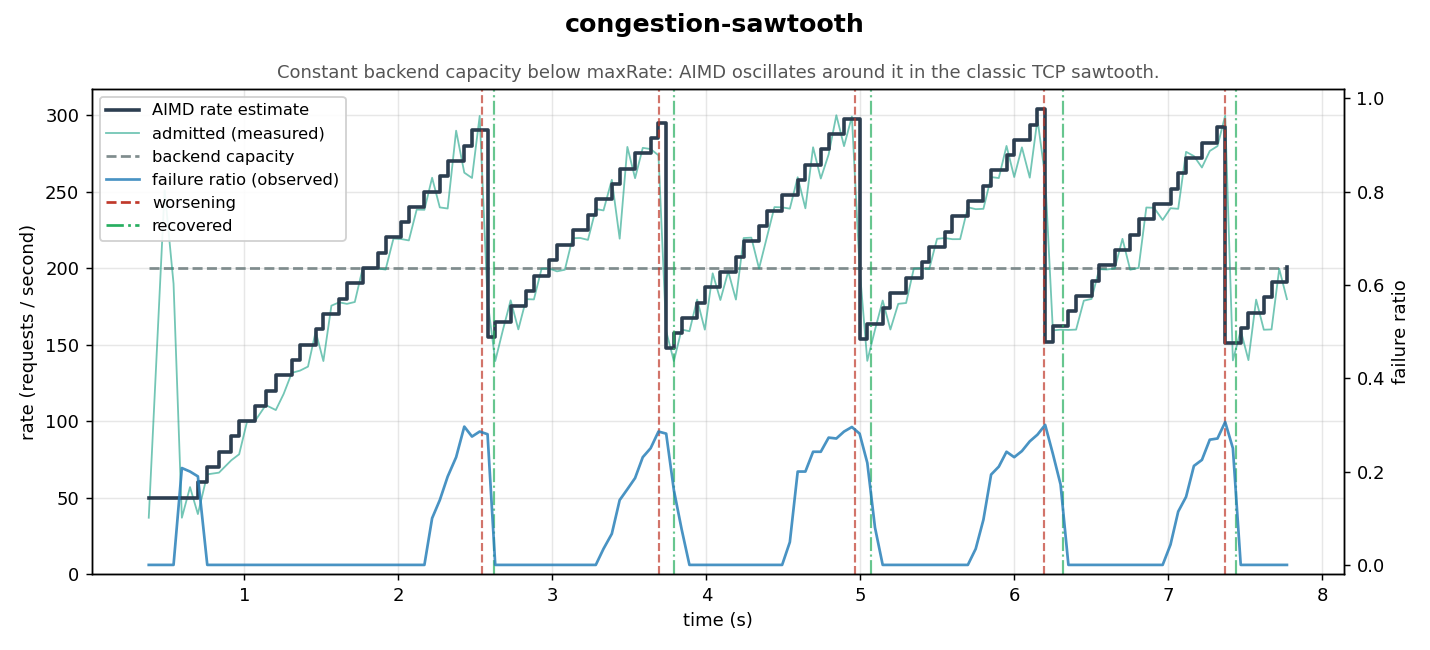
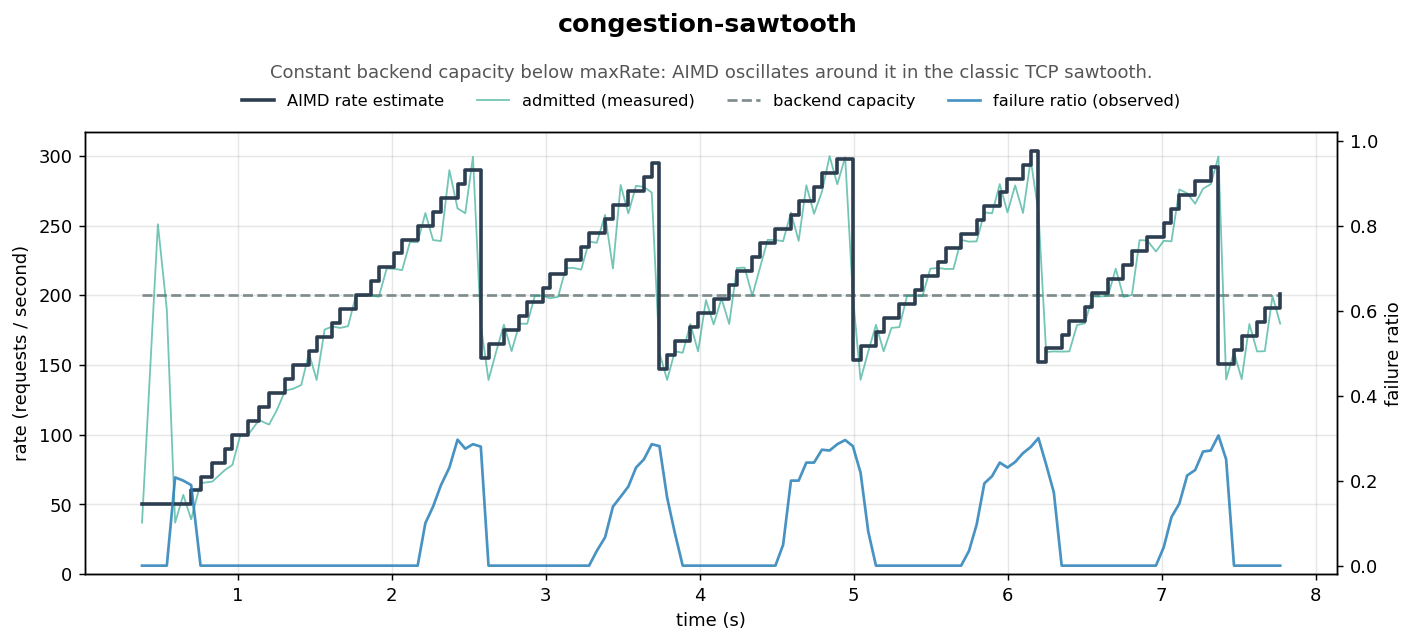
Clean up charts

Changed region(s): [[0.0, 0.0933, 0.9944, 0.9953], [0.404, 0.0311, 0.6215, 0.0622], [0.0311, 0.7465, 0.0621, 0.8087]]

diff --git a/charts/scripts/render.py b/charts/scripts/render.py
@@ -18,18 +18,10 @@ import matplotlib
 
 matplotlib.use("Agg")  # headless: render straight to files
 import matplotlib.pyplot as plt
-from matplotlib.lines import Line2D
 
 REPO_ROOT = Path(__file__).resolve().parents[2]
 DEFAULT_DATA_DIR = REPO_ROOT / "docs" / "charts" / "data"
 DEFAULT_OUT_DIR = REPO_ROOT / "docs" / "images" / "adaptive-rate-limiter"
-
-# Distinct color + style per control-loop event kind.
-EVENT_STYLES = {
-    "worsening": {"color": "#c0392b", "linestyle": "--", "label": "worsening"},
-    "recovering": {"color": "#e67e22", "linestyle": "--", "label": "recovering"},
-    "recovered": {"color": "#27ae60", "linestyle": "-.", "label": "recovered"},
-}
 
 
 def read_rows(path):
@@ -48,16 +40,8 @@ def load_samples(path):
     return elapsed, aimd, admitted, capacity, observed
 
 
-def load_events(path):
-    events = []
-    for row in read_rows(path):
-        events.append((float(row["elapsed_ms"]) / 1000.0, row["kind"], row.get("detail", "")))
-    return events
-
-
 def render_scenario(entry, data_dir, out_dir):
     elapsed, aimd, admitted, capacity, observed = load_samples(data_dir / entry["samples_file"])
-    events = load_events(data_dir / entry["events_file"])
 
     fig, ax_rate = plt.subplots(figsize=(11, 5))
 
@@ -85,32 +69,18 @@ def render_scenario(entry, data_dir, out_dir):
     ax_ratio.set_ylabel("failure ratio")
     ax_ratio.set_ylim(-0.02, 1.02)
 
-    # Vertical markers for control-loop events.
-    seen_kinds = set()
-    for ts, kind, _detail in events:
-        if kind == "rate_change":
-            continue
-        style = EVENT_STYLES.get(kind)
-        if style is None:
-            continue
-        ax_rate.axvline(ts, color=style["color"], linestyle=style["linestyle"], linewidth=1.2, alpha=0.7)
-        seen_kinds.add(kind)
-
     handles = [rate_line, admitted_line, capacity_line, observed_line]
-    handles += [
-        Line2D([0], [0], color=EVENT_STYLES[kind]["color"], linestyle=EVENT_STYLES[kind]["linestyle"],
-               label=EVENT_STYLES[kind]["label"])
-        for kind in EVENT_STYLES
-        if kind in seen_kinds
-    ]
-    ax_rate.legend(handles=handles, loc="upper left", framealpha=0.9, fontsize=9)
+    # Legend in a single horizontal row above the plot so it never covers the curves.
+    ax_rate.legend(
+        handles=handles, loc="lower center", bbox_to_anchor=(0.5, 1.02), ncol=len(handles), frameon=False, fontsize=9
+    )
 
     fig.suptitle(entry["scenario"], fontsize=14, fontweight="bold")
-    ax_rate.set_title(entry["description"], fontsize=10, color="#555555")
+    ax_rate.set_title(entry["description"], fontsize=10, color="#555555", pad=30)
     fig.tight_layout()
 
     out_path = out_dir / f"{entry['scenario']}.png"
-    fig.savefig(out_path, dpi=130)
+    fig.savefig(out_path, dpi=130, bbox_inches="tight")
     plt.close(fig)
     return out_path
 
